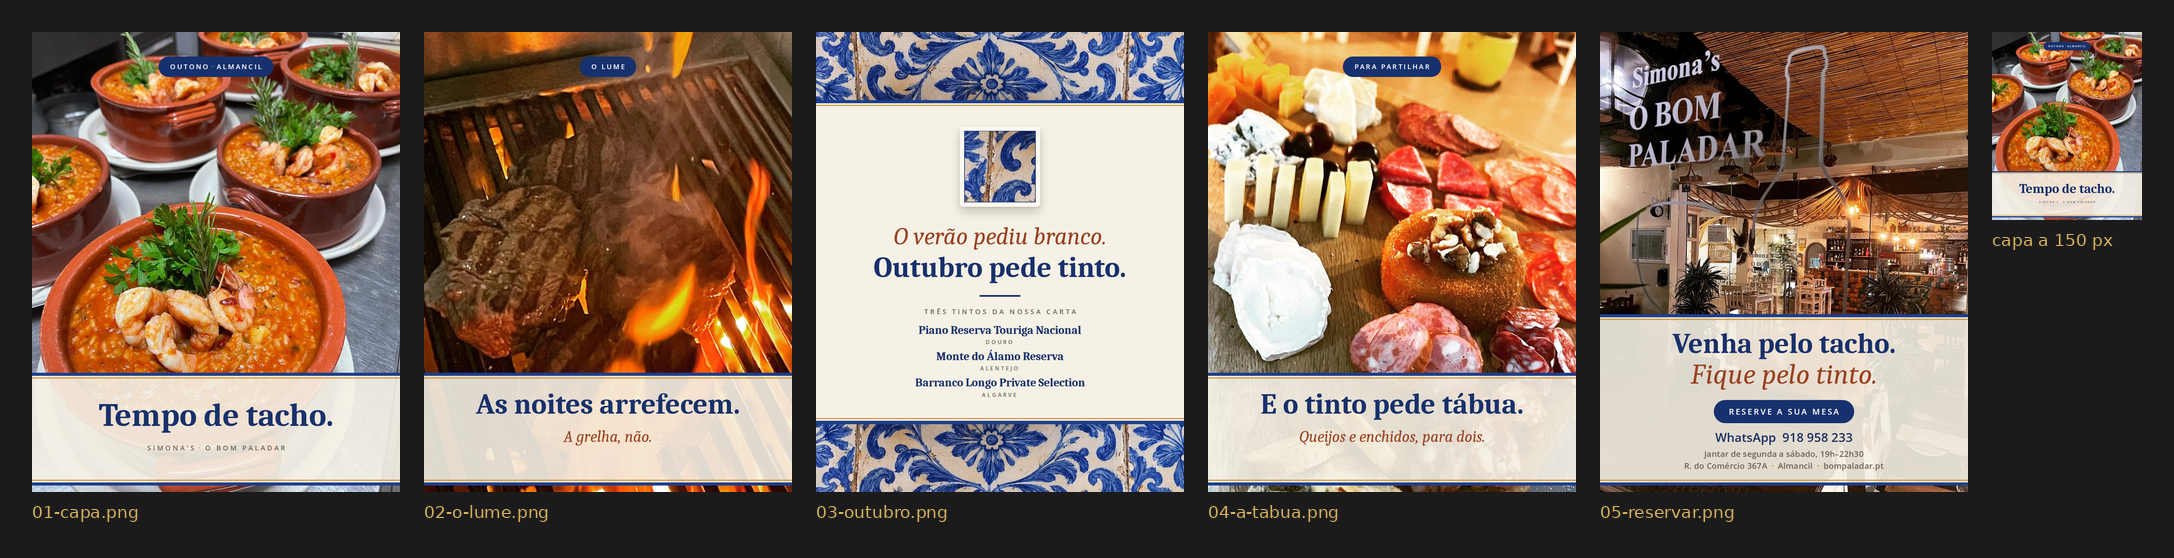
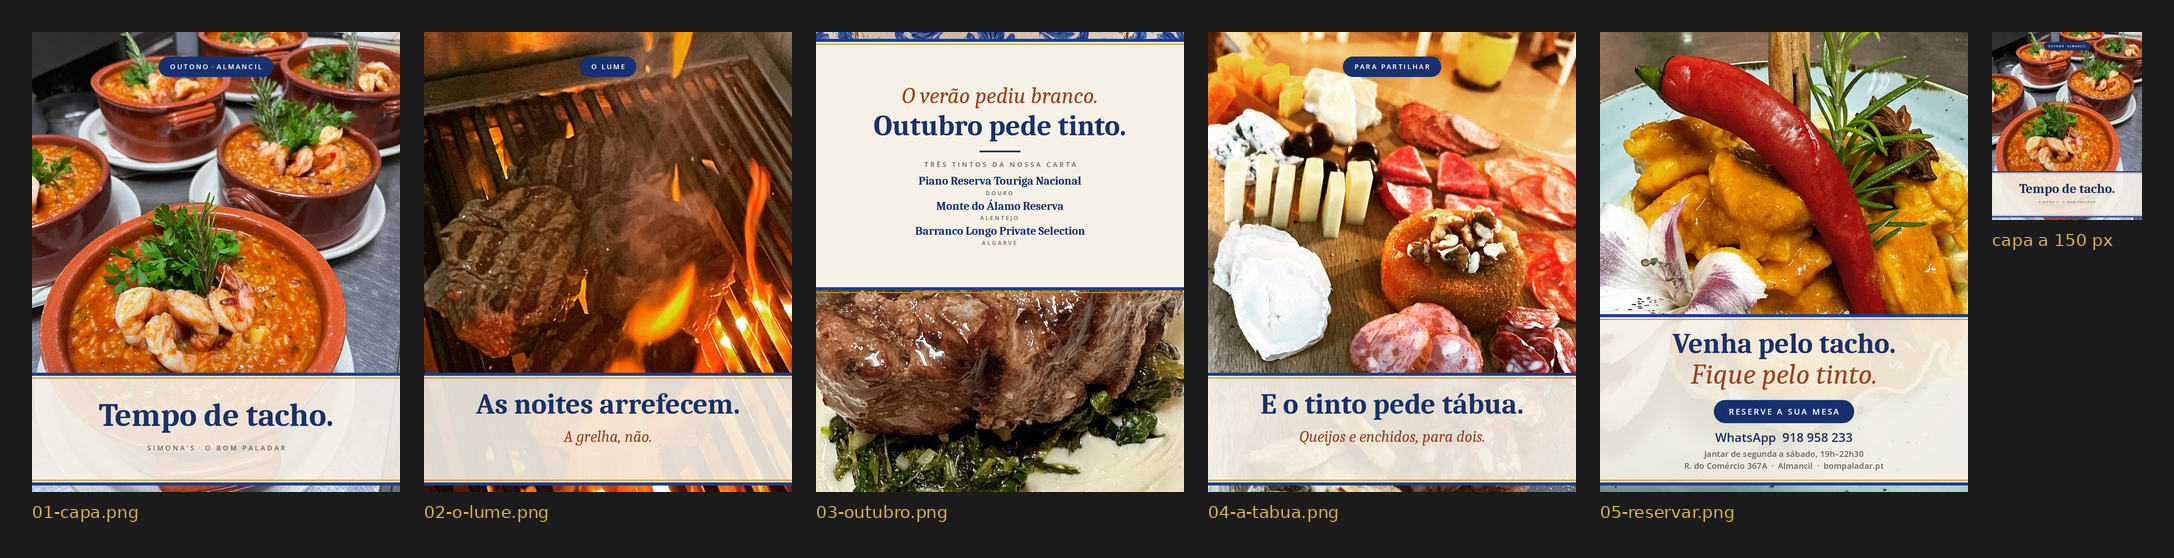
Bom Paladar: slides 3 e 5 com imagens e estrutura novas (bife do lombo com texto em cima; caril de camarão no fecho)
Claude-Session: https://claude.ai/code/session_01T2udCx2Sd3Psw31k9rqWKh

Changed region(s): [[0.3698, 0.0609, 0.5547, 0.8835], [0.7088, 0.0305, 0.9246, 0.6398], [0.7397, 0.853, 0.9246, 0.8835]]

diff --git a/social/bom-paladar/2026-10-outono/carrossel.html b/social/bom-paladar/2026-10-outono/carrossel.html
@@ -32,17 +32,22 @@ body{background:#1b1b1b;display:flex;flex-direction:column;align-items:center;ga
 .azul.baixo{bottom:0;border-top:9px solid var(--filete);height:209px}
 .azul.cima::after,.azul.baixo::after{content:"";position:absolute;left:0;right:0;height:3px;background:var(--ocre)}
 .azul.cima::after{bottom:-17px}.azul.baixo::after{top:-17px}
-.miolo{position:absolute;left:0;right:0;top:209px;bottom:209px;display:flex;flex-direction:column;align-items:center;justify-content:center}
+.tira{position:absolute;left:0;right:0;top:0;height:29px;background-size:1080px auto;background-position:center 40%;border-bottom:9px solid var(--filete)}
+.tira::after{content:"";position:absolute;left:0;right:0;bottom:-17px;height:3px;background:var(--ocre)}
+.foto3{position:absolute;left:0;right:0;bottom:0;height:601px;border-top:9px solid var(--filete)}
+.foto3::before{content:"";position:absolute;left:0;right:0;top:5px;height:3px;background:var(--ocre);z-index:1}
+.foto3 img{display:block;width:1080px;height:592px}
+.miolo{position:absolute;left:0;right:0;top:29px;bottom:601px;display:flex;flex-direction:column;align-items:center;justify-content:center}
 .moldura{width:236px;height:236px;padding:13px;background:#FBF8F1;border-radius:10px;
   box-shadow:0 16px 30px rgba(40,30,10,.20),0 2px 6px rgba(40,30,10,.12)}
 .moldura img{display:block;width:210px;height:210px;border:1.5px solid var(--navy)}
-.miolo .it{font-size:72px;margin-top:46px}
+.miolo .it{font-size:66px;margin-top:0}
 .miolo .t{font-size:85px;margin-top:4px}
-.risca{width:120px;height:5px;background:var(--navy);margin:34px 0 34px}
-.vinhos{display:flex;flex-direction:column;gap:16px}
+.risca{width:120px;height:5px;background:var(--navy);margin:26px 0 26px}
+.vinhos{display:flex;flex-direction:column;gap:12px}
 .vinho{font-weight:700;font-size:34px;line-height:1.1}
 .vinho span{display:block;font:600 16px/1 'Open Sans',sans-serif;letter-spacing:.3em;color:var(--cinza);text-transform:uppercase;margin-top:8px}
-.miolo .caps{margin-bottom:26px}
+.miolo .caps{margin-bottom:20px}
 
 /* 05 — reservar */
 .faixa.alta{top:828px;height:503px;padding:0;justify-content:center}
@@ -73,16 +78,15 @@ body{background:#1b1b1b;display:flex;flex-direction:column;align-items:center;ga
   </div>
 </section>
 <section class="slide" id="03-outubro">
-  <div class="azul cima" style="background-image:url(img/03-cima.jpg)"></div>
+  <div class="tira" style="background-image:url(img/03-cima.jpg)"></div>
   <div class="miolo">
-    <div class="moldura"><img src="img/03-azulejo.jpg" alt=""></div>
     <p class="it">O verão pediu branco.</p>
     <p class="t">Outubro pede tinto.</p>
     <div class="risca"></div>
     <p class="caps">Três tintos da nossa carta</p>
     <div class="vinhos"><p class="vinho">Piano Reserva Touriga Nacional<span>Douro</span></p><p class="vinho">Monte do Álamo Reserva<span>Alentejo</span></p><p class="vinho">Barranco Longo Private Selection<span>Algarve</span></p></div>
   </div>
-  <div class="azul baixo" style="background-image:url(img/03-baixo.jpg)"></div>
+  <div class="foto3"><img src="img/03.jpg" alt=""></div>
 </section>
 <section class="slide" id="04-a-tabua">
   <img class="fundo" src="img/04.jpg" alt="">

diff --git a/social/bom-paladar/2026-10-outono/build.py b/social/bom-paladar/2026-10-outono/build.py
@@ -30,7 +30,8 @@ REAIS = {
     "tachos":  "WhatsApp Image 2026-08-07 at 13.05.57.jpeg",      # arroz em tachos de barro
     "grelha":  "WhatsApp Image 2026-08-07 at 13.03.42 (1).jpeg",  # bifes na grelha com chama
     "tabua":   "WhatsApp Image 2026-08-07 at 12.42.05 (1).jpeg",  # tábua de queijos e enchidos
-    "entrada": "WhatsApp Image 2026-07-03 at 15.06.12 (2).jpeg",  # a porta, à noite
+    "bife":    "WhatsApp Image 2026-07-03 at 14.38.42 (5).jpeg",  # bife do lombo sobre espinafres
+    "caril":   "WhatsApp Image 2026-07-03 at 14.56.41 (2).jpeg",  # caril de camarão em pappadum
     "set-03":  "WhatsApp Image 2026-09-16 at 17.29.23 (1).jpeg",  # slide 03 de setembro (azulejo azul)
 }
 
@@ -94,7 +95,13 @@ def preparar():
             cobrir(FOTOS / REAIS[real], **ajuste).save(IMG / f"{chave}.jpg", quality=92)
             modo[chave] = "real"
     cobrir(FOTOS / REAIS["grelha"], zoom=1.15, px=0.35, py=0.7).save(IMG / "02.jpg", quality=92)
-    cobrir(FOTOS / REAIS["entrada"]).save(IMG / "05.jpg", quality=92)
+    cobrir(FOTOS / REAIS["caril"], zoom=1.0, px=0.5, py=0.5).save(IMG / "05.jpg", quality=92)
+    # 03: foto em baixo (1080×592), texto em cima — estrutura nova, não repete setembro
+    b = Image.open(FOTOS / REAIS["bife"]).convert("RGB")
+    s = 1080 / b.width
+    b = b.resize((1080, round(b.height * s)), Image.LANCZOS)
+    y = round((b.height - 592) * 0.62)
+    b.crop((0, y, 1080, y + 592)).save(IMG / "03.jpg", quality=92)
 
     # azulejo do slide 03: faixas de cima e de baixo + o azulejo emoldurado
     if (IMG / "ia-painel.png").exists():
@@ -153,17 +160,22 @@ body{background:#1b1b1b;display:flex;flex-direction:column;align-items:center;ga
 .azul.baixo{bottom:0;border-top:9px solid var(--filete);height:209px}
 .azul.cima::after,.azul.baixo::after{content:"";position:absolute;left:0;right:0;height:3px;background:var(--ocre)}
 .azul.cima::after{bottom:-17px}.azul.baixo::after{top:-17px}
-.miolo{position:absolute;left:0;right:0;top:209px;bottom:209px;display:flex;flex-direction:column;align-items:center;justify-content:center}
+.tira{position:absolute;left:0;right:0;top:0;height:29px;background-size:1080px auto;background-position:center 40%;border-bottom:9px solid var(--filete)}
+.tira::after{content:"";position:absolute;left:0;right:0;bottom:-17px;height:3px;background:var(--ocre)}
+.foto3{position:absolute;left:0;right:0;bottom:0;height:601px;border-top:9px solid var(--filete)}
+.foto3::before{content:"";position:absolute;left:0;right:0;top:5px;height:3px;background:var(--ocre);z-index:1}
+.foto3 img{display:block;width:1080px;height:592px}
+.miolo{position:absolute;left:0;right:0;top:29px;bottom:601px;display:flex;flex-direction:column;align-items:center;justify-content:center}
 .moldura{width:236px;height:236px;padding:13px;background:#FBF8F1;border-radius:10px;
   box-shadow:0 16px 30px rgba(40,30,10,.20),0 2px 6px rgba(40,30,10,.12)}
 .moldura img{display:block;width:210px;height:210px;border:1.5px solid var(--navy)}
-.miolo .it{font-size:72px;margin-top:46px}
+.miolo .it{font-size:66px;margin-top:0}
 .miolo .t{font-size:85px;margin-top:4px}
-.risca{width:120px;height:5px;background:var(--navy);margin:34px 0 34px}
-.vinhos{display:flex;flex-direction:column;gap:16px}
+.risca{width:120px;height:5px;background:var(--navy);margin:26px 0 26px}
+.vinhos{display:flex;flex-direction:column;gap:12px}
 .vinho{font-weight:700;font-size:34px;line-height:1.1}
 .vinho span{display:block;font:600 16px/1 'Open Sans',sans-serif;letter-spacing:.3em;color:var(--cinza);text-transform:uppercase;margin-top:8px}
-.miolo .caps{margin-bottom:26px}
+.miolo .caps{margin-bottom:20px}
 
 /* 05 — reservar */
 .faixa.alta{top:828px;height:503px;padding:0;justify-content:center}
@@ -211,16 +223,15 @@ def slides():
     vinhos = "".join(f'<p class="vinho">{e(n)}<span>{e(r)}</span></p>' for n, r in TINTOS)
     out.append(f'''
 <section class="slide" id="03-outubro">
-  <div class="azul cima" style="background-image:url(img/03-cima.jpg)"></div>
+  <div class="tira" style="background-image:url(img/03-cima.jpg)"></div>
   <div class="miolo">
-    <div class="moldura"><img src="img/03-azulejo.jpg" alt=""></div>
     <p class="it">O verão pediu branco.</p>
     <p class="t">Outubro pede tinto.</p>
     <div class="risca"></div>
     <p class="caps">Três tintos da nossa carta</p>
     <div class="vinhos">{vinhos}</div>
   </div>
-  <div class="azul baixo" style="background-image:url(img/03-baixo.jpg)"></div>
+  <div class="foto3"><img src="img/03.jpg" alt=""></div>
 </section>''')
     # 04 — a tábua
     out.append(f'''

diff --git a/social/bom-paladar/2026-10-outono/legenda.md b/social/bom-paladar/2026-10-outono/legenda.md
@@ -29,9 +29,9 @@ Série dos azulejos, 2.º capítulo. Setembro foi azul e branco ("Obrigado, Alma
 
 1. Vários tachos de barro com arroz, camarão e ervas frescas. Texto: Tempo de tacho.
 2. Bifes na grelha entre chamas. Texto: As noites arrefecem. A grelha, não.
-3. Cartão creme entre faixas de azulejo. Texto: O verão pediu branco. Outubro pede tinto. Três tintos da nossa carta: Piano Reserva Touriga Nacional, Douro; Monte do Álamo Reserva, Alentejo; Barranco Longo Private Selection, Algarve.
+3. Bife do lombo grelhado sobre espinafres, com o texto por cima. Texto: O verão pediu branco. Outubro pede tinto. Três tintos da nossa carta: Piano Reserva Touriga Nacional, Douro; Monte do Álamo Reserva, Alentejo; Barranco Longo Private Selection, Algarve.
 4. Tábua de queijos e enchidos com queijo frito e nozes. Texto: E o tinto pede tábua. Queijos e enchidos, para dois.
-5. Entrada do restaurante à noite. Texto: Venha pelo tacho. Fique pelo tinto. Reserve a sua mesa. WhatsApp 918 958 233.
+5. Caril de camarão em cesto de pappadum, com malagueta e flor. Texto: Venha pelo tacho. Fique pelo tinto. Reserve a sua mesa. WhatsApp 918 958 233.
 
 ## Confirmar com a Simona antes de publicar
 
@@ -40,7 +40,7 @@ Série dos azulejos, 2.º capítulo. Setembro foi azul e branco ("Obrigado, Alma
 
 ## Imagens
 
-- 02 e 05 são fotos reais, sem edição.
+- 02, 03 e 05 são fotos reais, sem edição (grelha, bife do lombo, caril de camarão). O 03 e o 05 têm estrutura própria para não repetirem setembro: no 03 o texto fica em cima e a foto em baixo; o 05 deixa a porta da casa e mostra um prato.
 - 01 e 04: versão final com o prato real sobre mesa de azulejo azul e ocre, gerada no Higgsfield (GPT Image 2.5, 24/09). Sem essas imagens em `img/`, o `build.py` usa as fotos originais (é o rascunho atual).
-- 03: faixas e azulejo emoldurado do painel azul e ocre gerado no Higgsfield; no rascunho usa o azulejo de setembro.
+- 03: a tira de azulejo no topo vem do painel azul e ocre gerado no Higgsfield; no rascunho usa o azulejo de setembro.
 - Para gerar as finais: `python3 build.py --baixar` (precisa do domínio `d8j0ntlcm91z4.cloudfront.net` autorizado no ambiente), ou pôr as 3 imagens em `img/` com os nomes `ia-tachos.png`, `ia-tabua.png` e `ia-painel.png` e correr `python3 build.py`.
